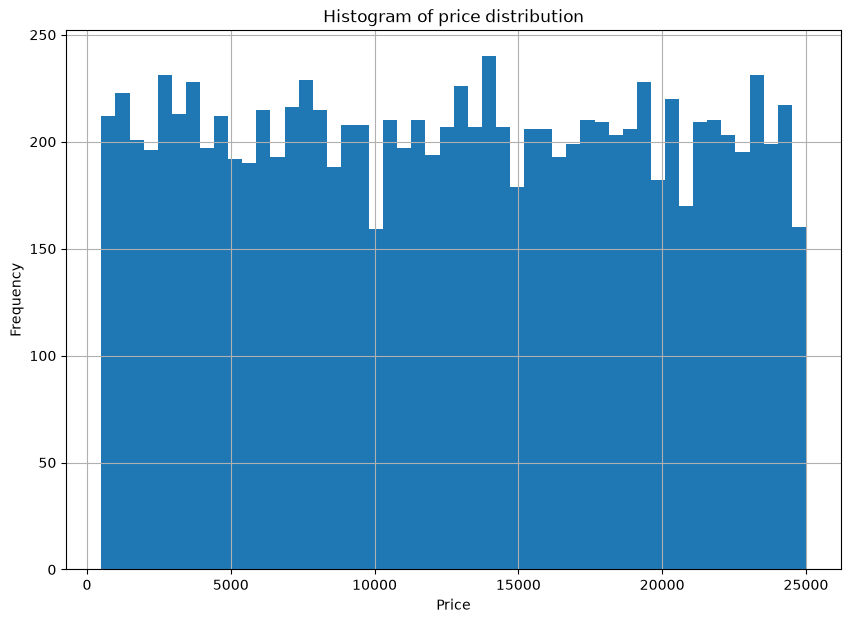
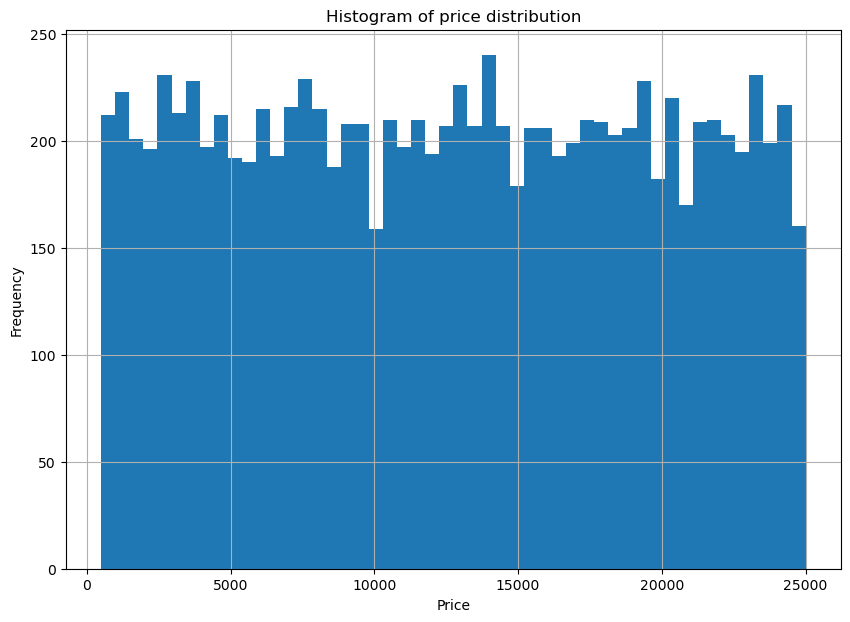
intro to lab 03

diff --git a/src/ingest/source_b.py b/src/ingest/source_b.py
@@ -1,0 +1,41 @@
+from urllib import response
+
+import pandas as pd
+import requests
+
+from src.common.config import (
+    SOURCE_B_RAW_PATH,
+    MARKET_COORDS,
+    RAINFALL_START_DATE,
+    RAINFALL_END_DATE,
+    RAINFALL_URL
+)
+
+
+def get_mkt_rainfall(mkt_name, latitude, longitude, start_date=RAINFALL_START_DATE, end_date=RAINFALL_END_DATE):
+    params = {
+        "latitude": latitude,
+        "longitude": longitude,
+        "start_date": start_date,
+        "end_date": end_date,
+        "time-zone": "auto",
+        "daily": "precipitation_sum"
+    }
+
+    response = requests.get(RAINFALL_URL, params=params, timeout=10)
+    if response.status_code != 200:
+        raise RuntimeError(
+            f"Failed to get data for {mkt_name}: Status  {response.status_code}"
+        )
+
+    daily = response.json()["daily"]
+    return pd.DataFrame({
+        "date": daily["time"],
+        "market": mkt_name,
+        "rainfall": daily["precipitation_sum"]
+        })
+
+#write function to get rain information for all markets
+def get_all_mkts(markets):
+    #for rainfall, mkt_name is key, latitude is value[0], longitude is value[1]
+    pass

diff --git a/check.py b/check.py
@@ -1,4 +1,5 @@
 from src.validate.rules import rule_positive_price, rule_duplicate_ids, rule_duplicate_rows, rule_valid_date, rule_missing_market, rule_known_commodity
+from src.ingest.source_a import ingest_source_a
 import pandas as pd
 
 df = pd.read_csv("data/raw/prices.csv")
@@ -17,3 +18,7 @@ print(val)
 print(missing_market)
 print(commodities)
 print(df)
+print(" ")
+
+source_a = ingest_source_a()
+print(f"Source A shape: {source_a.shape}")

diff --git a/src/common/config.py b/src/common/config.py
@@ -1,0 +1,14 @@
+SOURCE_A_RAW_PATH = "data/raw/prices.csv"
+SOURCE_B_RAW_PATH = "data/raw/rain.csv"
+
+MARKET_COORDS = {
+    "Mukono": (0.3533, 32.7553),
+    "Bwaise": (0.3500, 32.5611),
+    "Nakasero": (0.3233, 32.5789),
+    "Kansanga": (0.2872, 32.6078),
+}
+
+RAINFALL_START_DATE = "2020-01-01"
+RAINFALL_END_DATE = "2022-12-31"
+
+RAINFALL_URL = "https://archive-api.open-meteo.com/v1/archive"

diff --git a/src/ingest/source_a.py b/src/ingest/source_a.py
@@ -1,0 +1,8 @@
+import pandas as pd
+
+from src.common.config import SOURCE_A_RAW_PATH
+
+
+def ingest_source_a(path=SOURCE_A_RAW_PATH):
+    df = pd.read_csv(path)
+    return df
